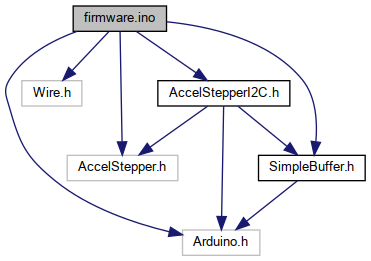
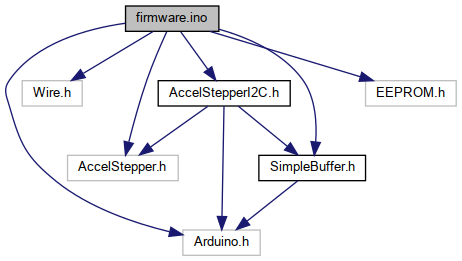
added ESP32 support, diagnostics, speed example, changeable I2C address

diff --git a/docs/firmware_8ino.html b/docs/firmware_8ino.html
@@ -99,17 +99,19 @@ $(document).ready(function(){initNavTree('firmware_8ino.html',''); initResizable
 <code>#include &lt;AccelStepper.h&gt;</code><br />
 <code>#include &lt;<a class="el" href="_accel_stepper_i2_c_8h.html">AccelStepperI2C.h</a>&gt;</code><br />
 <code>#include &lt;<a class="el" href="_simple_buffer_8h.html">SimpleBuffer.h</a>&gt;</code><br />
+<code>#include &lt;EEPROM.h&gt;</code><br />
 </div><div class="textblock"><div class="dynheader">
 Include dependency graph for firmware.ino:</div>
 <div class="dyncontent">
 <div class="center"><img src="firmware_8ino__incl.png" border="0" usemap="#firmware_8ino" alt=""/></div>
 <map name="firmware_8ino" id="firmware_8ino">
-<area shape="rect" title=" " alt="" coords="73,5,167,32"/>
+<area shape="rect" title=" " alt="" coords="126,5,219,32"/>
 <area shape="rect" title=" " alt="" coords="183,229,260,256"/>
 <area shape="rect" title=" " alt="" coords="22,80,82,107"/>
-<area shape="rect" title=" " alt="" coords="67,155,178,181"/>
+<area shape="rect" title=" " alt="" coords="68,155,178,181"/>
 <area shape="rect" href="_accel_stepper_i2_c_8h.html" title="Arduino library for I2C&#45;control of stepper motors connected to another Arduino which runs the associa..." alt="" coords="158,80,290,107"/>
-<area shape="rect" href="_simple_buffer_8h.html" title="simple and ugly serialization buffer for any types. Template technique adapted from Nick Gammon&#39;s I2C..." alt="" coords="259,155,365,181"/>
+<area shape="rect" href="_simple_buffer_8h.html" title="simple and ugly serialization buffer for any types. Template technique adapted from Nick Gammon&#39;s I2C..." alt="" coords="259,155,366,181"/>
+<area shape="rect" title=" " alt="" coords="366,80,456,107"/>
 </map>
 </div>
 </div><table class="memberdecls">
